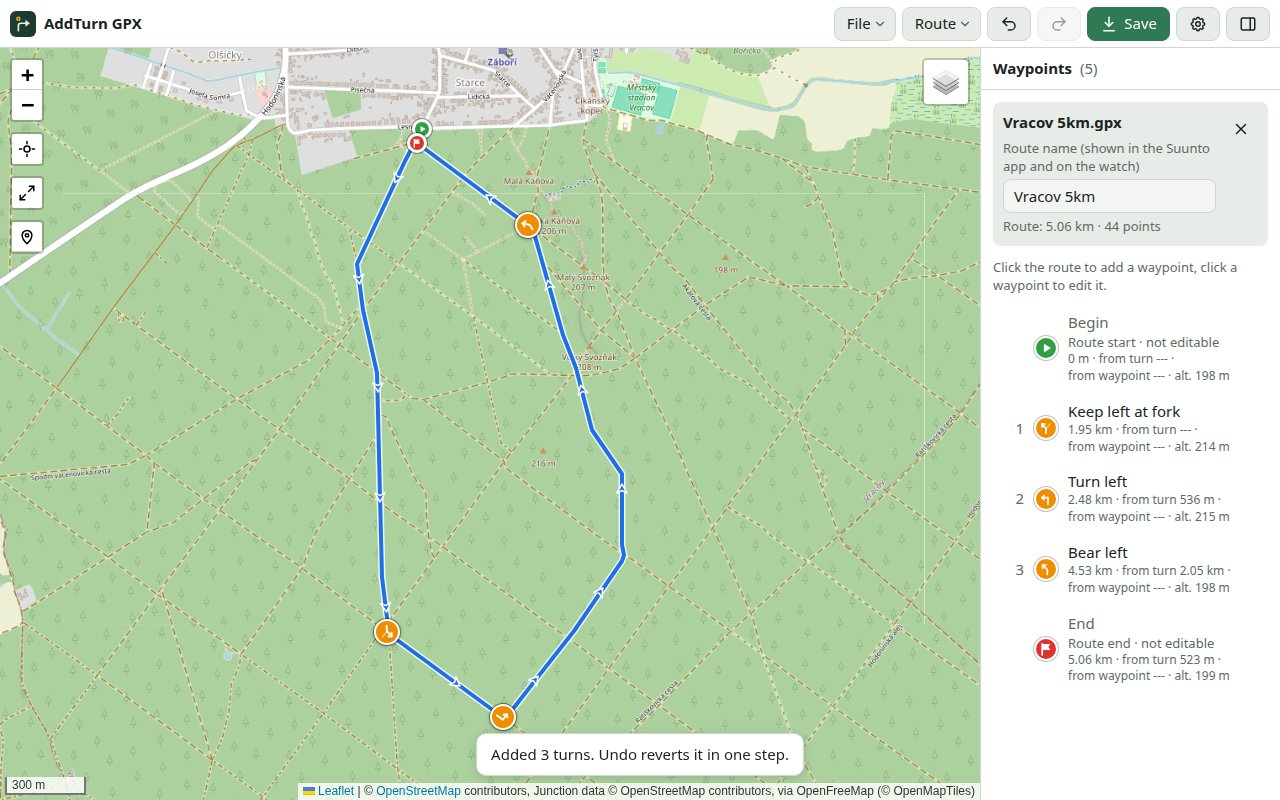
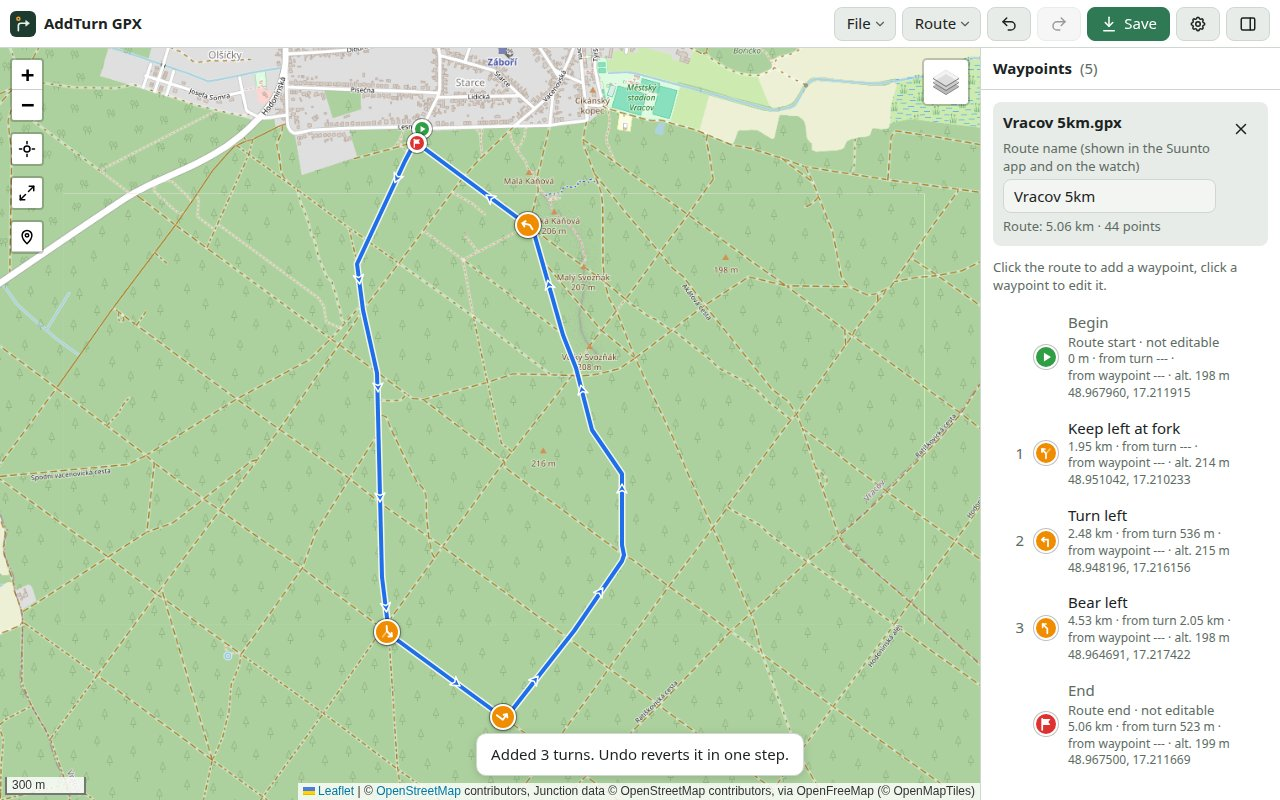
Coordinates of every waypoint in the list (latitude, longitude, 6 decimals – the text Go to accepts); README and screenshots (v113)

Changed region(s): [[0.7812, 0.4688, 0.9688, 0.9688], [0.8125, 0.4062, 0.8438, 0.4688]]

diff --git a/index.html b/index.html
@@ -263,6 +263,7 @@
   #wpt-list .wdesc{ color: var(--text-muted); font-size: 13px; overflow-wrap: anywhere; }
   #wpt-list .wdist{ color: var(--text-muted); font-size: 12px; font-variant-numeric: tabular-nums; }
   #wpt-list .wdist span{ white-space: nowrap; }
+  #wpt-list .wcoord{ color: var(--text-muted); font-size: 12px; font-variant-numeric: tabular-nums; }
   .hint{ color: var(--text-muted); font-size: 13px; }
   .add-hint{ margin: 0 0 10px; }
 
@@ -2243,6 +2244,7 @@ function el(tag, cls, text){
   return e;
 }
 function fmtKm(m){ return (m / 1000).toFixed(m < 10000 ? 2 : 1) + " km"; }
+const fmtLatLng = (ll) => ll.lat.toFixed(6) + ", " + ll.lng.toFixed(6);
 
 // Údaje pod každým waypointem v seznamu (cyklus 55): vzdálenost od startu po trase,
 // od předchozí odbočky, od předchozího waypointu, který není odbočka (bod zájmu,
@@ -2384,6 +2386,8 @@ function renderPanel(stats){
     const dist = el("div", "wdist");
     metrics[i].forEach((m, k) => dist.append(...(k ? [" · "] : []), el("span", null, m)));
     body.append(dist);
+    // Souřadnice (cyklus 80) – stejný zápis, jaký přijímá Go to a píše Debug turns
+    if (w.latlng) body.append(el("div", "wcoord", fmtLatLng(w.latlng)));
     if (w.warn) body.append(el("div", "wwarn off", "⚠ " + w.warn));
     if (w.typeWarn) body.append(el("div", "wwarn", "⚠ " + w.typeWarn));
     if (w.fixed || w.fromRoute) li.classList.add("fixed");

diff --git a/sw.js b/sw.js
@@ -13,7 +13,7 @@
 // Na originu dushino.github.io běží i další aplikace (OK Trainer) se společným
 // úložištěm cache, proto se při aktivaci mažou jen cache s touto předponou.
 const CACHE_PREFIX = "addturngpx-";
-const CACHE_NAME = CACHE_PREFIX + "v112";
+const CACHE_NAME = CACHE_PREFIX + "v113";
 // Soubor sdílený do nainstalované aplikace (manifest → share_target) přijde jako
 // POST na SHARE_URL. Uloží se do vlastní cache, stránka si ho po přesměrování
 // vyzvedne a cache smaže. Názvy = SHARE_CACHE a SHARED_FILE v index.html.

diff --git a/tests/README.md b/tests/README.md
@@ -29,7 +29,7 @@ Requirements: Node.js 22+ and Google Chrome. The runner looks for a `google-chro
 | `keys.json` | **Arrow keys and the panel lock** (cycle 73): ↓ / ↑ select the next / previous turn (points of interest, Crossroads and Begin/End skipped; from a point of interest the nearest turn after / before it; Begin → the first turn), stay at the first / last turn, centre the map, keep the list item visible; with the map focused the arrow selects instead of panning (with nothing selected Leaflet still pans); ignored while typing, with a modifier, with a menu or Settings open. **Panel lock** (Debug turns on, `fixtures/vracov-5km-snapped.gpx`): the user scrolls the panel to the Debug turns card → the panel keeps its place for arrows, a map click, an edit and Undo; a list choice ends it (the list item followed again); a scroll made by the app doesn't lock; scrolling the editor out of sight, Esc, a click on an empty map place and opening a file end it |
 | `goto.json` | **Go to** (cycle 78): the button under Fit route (also with no file), the form beside it, Esc; the input – decimal degrees (comma, space, N/S/E/W letters before or after, either order, minus), degrees–minutes–seconds, degrees–decimal minutes, a single number = km (dot or comma), wrong input refused with a reason; coordinates centre the map at zoom 18 (a larger zoom kept) with a temporary mark under the waypoints, removed by a map click or Esc; a waypoint within 5 m selected, 8 m away none (the previous selection closed); a distance as shown in the waypoint list selects that waypoint, 0 km = Begin, longer than the route refused; an out-and-back route (Begin and End at one place) by km and by coordinates; Ctrl+G (not with Settings open); a 320 px phone (the form fits, the place in the upper part of the map above the editor) |
 | `offline.json` | **Starting without signal** (the test server accepts connections but never answers, as on a train with zero signal): the app starts at once from the service worker cache, also with a query in the address; other files from the app's site come from the cache after the 3 s time limit. **Updates**: a new `sw.js` is installed in the background, the *New version available* bar appears, ✕ hides it, Reload switches to the new version, old caches are deleted. Run it last – it changes the service worker of the shared browser profile and restores it at the end |
-| `editing.json` | **Opening and saving.** A file in the saved format (Suunto Routeplanner, as AddTurn saves it since cycle 44: `fixtures/saved-*.gpx`) opens unchanged (not Modified, no notice) and saving it without changes writes the same bytes; an older AddTurn file in the test51 format (`fixtures/addturn-*.gpx`) opens as Modified with the notice and its content kept. Inside the app the text stays in the test51 format: changing a type or name, Undo/Redo back to the exact original, adding a waypoint on a route point (with its elevation), inserting a route point on a long segment, moving a waypoint, `windows-1250` → UTF-8. Conversion on open: a Suunto app export (test51) gets the new creator and line ends, conversion is idempotent, a Routeplanner file is converted (one line per point, Begin…End in route order, elevation everywhere), tracks become one route with generated Begin/End, route points with a name/type become waypoints, an old unconverted session is converted on restore. Route name: editable field in the panel, only the right `<name>` changes (route name has priority over metadata), Undo, empty name refused, Save as suggests `<route name>.gpx`. **Saved file format**: header and metadata, groups Begin/End → Turn guidance waypoints (every turn named) → Route waypoints (points of interest) → Route points, waypoints without elevation, no line end at the end, it opens again unchanged; Settings → *Write waypointIndices* (off by default): indices of Begin, every turn, points of interest and End, and such a file opens unchanged only with the option on. **Waypoint list**: distance from the start, from the previous turn, from the previous waypoint that is not a turn (`---` when none; Begin/End don't count) and the altitude, compared with values computed from the route points; a waypoint off the route shows only its altitude |
+| `editing.json` | **Opening and saving.** A file in the saved format (Suunto Routeplanner, as AddTurn saves it since cycle 44: `fixtures/saved-*.gpx`) opens unchanged (not Modified, no notice) and saving it without changes writes the same bytes; an older AddTurn file in the test51 format (`fixtures/addturn-*.gpx`) opens as Modified with the notice and its content kept. Inside the app the text stays in the test51 format: changing a type or name, Undo/Redo back to the exact original, adding a waypoint on a route point (with its elevation), inserting a route point on a long segment, moving a waypoint, `windows-1250` → UTF-8. Conversion on open: a Suunto app export (test51) gets the new creator and line ends, conversion is idempotent, a Routeplanner file is converted (one line per point, Begin…End in route order, elevation everywhere), tracks become one route with generated Begin/End, route points with a name/type become waypoints, an old unconverted session is converted on restore. Route name: editable field in the panel, only the right `<name>` changes (route name has priority over metadata), Undo, empty name refused, Save as suggests `<route name>.gpx`. **Saved file format**: header and metadata, groups Begin/End → Turn guidance waypoints (every turn named) → Route waypoints (points of interest) → Route points, waypoints without elevation, no line end at the end, it opens again unchanged; Settings → *Write waypointIndices* (off by default): indices of Begin, every turn, points of interest and End, and such a file opens unchanged only with the option on. **Waypoint list**: distance from the start, from the previous turn, from the previous waypoint that is not a turn (`---` when none; Begin/End don't count) and the altitude, compared with values computed from the route points; a waypoint off the route shows only its altitude; **the coordinates** of every waypoint (cycle 80): 6 decimals as in the file, also Begin, End and a waypoint off the route, a text Go to accepts |
 
 **The tests never contact the real data services.** GraphHopper requests are answered by a mock, set with `__gh.mode` (see `run.mjs`). Requests to the Overpass API are answered from `fixtures/vracov-overpass.json`, which holds OpenStreetMap data around `fixtures/vracov-5km.gpx` (a copy of `samples/Vracov 5km.gpx` as it was before 2026-11-14, so that changes in `samples/` don't break the tests), or replaced with simulated failures. Map tile requests are answered from `fixtures/tiles/openfreemap/` (OpenFreeMap, OpenMapTiles schema) and `fixtures/tiles/osmf/` (OpenStreetMap vector tiles, Shortbread schema): 12 tiles at zoom 14 around the same route, downloaded on 2026-10-21; they also cover `fixtures/vracov-5.5km.gpx`. Three more OpenFreeMap tiles (`8975/5621`, `8975/5622`, `8974/5622`, downloaded on 2026-11-05) cover `fixtures/okruh-start.gpx`, `fixtures/okruh-uturn.gpx` and `fixtures/vresky-fork.gpx`. Four OpenFreeMap tiles `8502–8503/5834–5835` (downloaded on 2026-11-20) cover `fixtures/utmb-3.9km.gpx` (42 points of `samples/UTMB_2026_25e2a492e6.gpx` around 3.9 km). Data © OpenStreetMap contributors (ODbL); OpenFreeMap tiles © OpenMapTiles.
 

diff --git a/README.md b/README.md
@@ -15,7 +15,7 @@ Suunto watches show an instruction (turn left, keep right at a fork, …) and th
 
 ![AddTurn GPX with a route and generated turn instructions](docs/img/overview.jpg)
 
-*A route with the turns added by **Route → Generate turns**: their icons on the map, and in the panel the list of waypoints with the distance from the start, from the previous turn and the altitude.*
+*A route with the turns added by **Route → Generate turns**: their icons on the map, and in the panel the list of waypoints with the distance from the start, from the previous turn, the altitude and the coordinates.*
 
 ## Recommended workflow (tested on a watch)
 
@@ -67,7 +67,7 @@ Good to know:
 ## The screen
 
 - **Map**: the route with arrows showing the direction of travel, plus the waypoints. The buttons on the left zoom in and out, show your location (the icon turns blue; click it again to hide the location), and **⤢ Fit route** shows the whole route, also while you are planning one. The **pin** button below them (or **Ctrl+G**) is **Go to**: type coordinates – decimal like `45.7661, 6.8385` (also `45.7661N, 6.8385E`), or degrees, minutes and seconds like `45°45'58"N 6°50'18"E` or `N 45° 45.966' E 6° 50.309'` – or a distance along the open route in km, as shown in the waypoint list (`67.28` or `67.28 km`). The map zooms in on the place and marks it with a ring until you click the map or press Esc; a waypoint within 5 m of it is selected. The layers button on the right switches between **OpenStreetMap**, **OpenTopoMap** (topographic map with contour lines) and **Satellite (Esri)**. A metric scale bar is in the bottom left corner.
-- **Panel** (on the right on a computer, a pull-up sheet at the bottom on a phone): file details, the **route name** that the Suunto app and the watch will show (you can edit it at any time; Undo works as for other changes), and the list of waypoints in the order you'll reach them on the route. Under each waypoint: the distance from the start along the route, from the previous turn, from the previous waypoint that is not a turn (point of interest, Crossroads, plain waypoint; *---* when there is none) and the altitude. A waypoint off the route shows only its altitude.
+- **Panel** (on the right on a computer, a pull-up sheet at the bottom on a phone): file details, the **route name** that the Suunto app and the watch will show (you can edit it at any time; Undo works as for other changes), and the list of waypoints in the order you'll reach them on the route. Under each waypoint: the distance from the start along the route, from the previous turn, from the previous waypoint that is not a turn (point of interest, Crossroads, plain waypoint; *---* when there is none) and the altitude, and below that its **coordinates** (latitude, longitude, e.g. `48.957771, 17.209697`) – the same text you can type into **Go to**. A waypoint off the route shows only its altitude and coordinates.
 - **Toolbar**: the menus **File** (New route, Open, Save, Save as…, Export FIT, Close) and **Route** (Snap to roads, Generate turns, Edit route, Reverse route), then Undo, Redo, Save, Settings, and the button that shows or hides the panel. Menu items that can't be used at the moment (for example Route without an open route) are greyed out; *Save as…* is shown only in browsers that can choose where to save (Chrome and Edge on a computer). On a phone the buttons other than the menus show only icons. The app name (or icon) on the left opens this project page on GitHub.
 
 <img src="docs/img/mobile.jpg" alt="AddTurn GPX on a phone" width="260">

diff --git a/README-CZ.md b/README-CZ.md
@@ -15,7 +15,7 @@ Hodinky Suunto při navigaci po trase ukazují pokyn (odboč vlevo, na rozcestí
 
 ![AddTurn GPX s trasou a vygenerovanými pokyny](docs/img/overview.jpg)
 
-*Trasa s odbočkami, které přidalo **Route → Generate turns**: jejich ikony na mapě a v panelu seznam waypointů se vzdáleností od startu, od předchozí odbočky a nadmořskou výškou.*
+*Trasa s odbočkami, které přidalo **Route → Generate turns**: jejich ikony na mapě a v panelu seznam waypointů se vzdáleností od startu, od předchozí odbočky, nadmořskou výškou a souřadnicemi.*
 
 ## Doporučený postup (ověřeno na hodinkách)
 
@@ -67,7 +67,7 @@ Dobré vědět:
 ## Obrazovka
 
 - **Mapa**: trasa se šipkami ve směru jízdy a waypointy. Tlačítka vlevo přibližují a oddalují, ukážou tvou polohu (ikona zmodrá, dalším klepnutím poloha zmizí) a **⤢ Fit route** ukáže celou trasu, i tu právě plánovanou. Tlačítko se **špendlíkem** pod nimi (nebo **Ctrl+G**) je **Go to** (přejít na): zadej souřadnice – desetinné jako `45.7661, 6.8385` (i `45.7661N, 6.8385E`), nebo stupně, minuty a vteřiny jako `45°45'58"N 6°50'18"E` či `N 45° 45.966' E 6° 50.309'` – nebo vzdálenost po otevřené trase v km, jak ji ukazuje seznam waypointů (`67.28` nebo `67.28 km`). Mapa místo přiblíží a označí kroužkem, který zmizí po kliknutí do mapy nebo Esc; waypoint do 5 m od místa se vybere. Tlačítkem vrstev vpravo přepínáš mezi **OpenStreetMap**, **OpenTopoMap** (turistická mapa s vrstevnicemi) a **Satellite (Esri)**. Vlevo dole je měřítko v metrech.
-- **Panel** (na počítači vpravo, na telefonu vysouvací panel dole): údaje o souboru, **název trasy**, který ukáže aplikace Suunto a hodinky (můžeš ho kdykoli upravit; Zpět funguje jako u ostatních úprav), a seznam waypointů v pořadí, v jakém na ně na trase narazíš. U každého waypointu: vzdálenost od startu po trase, od předchozí odbočky, od předchozího waypointu, který není odbočka (bod zájmu, Crossroads, obecný waypoint; *---*, když žádný není), a nadmořská výška. Waypoint mimo trasu ukáže jen výšku.
+- **Panel** (na počítači vpravo, na telefonu vysouvací panel dole): údaje o souboru, **název trasy**, který ukáže aplikace Suunto a hodinky (můžeš ho kdykoli upravit; Zpět funguje jako u ostatních úprav), a seznam waypointů v pořadí, v jakém na ně na trase narazíš. U každého waypointu: vzdálenost od startu po trase, od předchozí odbočky, od předchozího waypointu, který není odbočka (bod zájmu, Crossroads, obecný waypoint; *---*, když žádný není), a nadmořská výška a pod tím jeho **souřadnice** (šířka, délka, např. `48.957771, 17.209697`) – stejný zápis, jaký přijímá **Go to**. Waypoint mimo trasu ukáže jen výšku a souřadnice.
 - **Lišta**: menu **File** (New route, Open, Save, Save as…, Export FIT, Close) a **Route** (Snap to roads, Generate turns, Edit route, Reverse route), dál Undo, Redo, Save, Settings a tlačítko, které panel ukáže nebo skryje. Položky, které právě použít nejde (třeba Route bez otevřené trasy), jsou šedé; *Save as…* je jen v prohlížečích, které umí vybrat, kam uložit (Chrome a Edge na počítači). Na telefonu mají tlačítka kromě menu jen ikony. Název (nebo ikona) aplikace vlevo otevře tuto stránku projektu na GitHubu.
 
 <img src="docs/img/mobile.jpg" alt="AddTurn GPX na telefonu" width="260">

diff --git a/docs/dev/PROGRESS.md b/docs/dev/PROGRESS.md
@@ -91,7 +91,8 @@ potvrzení od uživatele → další cyklus.
 | 76 | Trasa vede po cestě, na které leží: větev z úhlu v 10/20 m dál než 3 m od trasy (5 m od uzlu) a jiná do 1 m → ta jiná (v109) | implementováno, testy 341/341; čeká na test uživatele |
 | 77 | Narrow fork angle v Settings (výchozí 25°): v sektoru A je rozcestím i jiná cesta vpřed do tohoto úhlu od trasy (v110) | potvrzeno uživatelem (2026-11-21) |
 | 78 | Go to: souřadnice nebo km po trase (tlačítko na mapě, Ctrl+G), kroužek na místě, výběr waypointu do 5 m (v111) | potvrzeno uživatelem (2026-11-21) |
-| 79 | Begin / End: ikony se symboly ▶ a vlaječka místo písmen S / F, záložní popisky Begin / End (v112) | implementováno, testy 353/353; čeká na test uživatele |
+| 79 | Begin / End: ikony se symboly ▶ a vlaječka místo písmen S / F, záložní popisky Begin / End (v112) | potvrzeno uživatelem (2026-11-21) |
+| 80 | Souřadnice každého waypointu v seznamu (6 desetinných míst, zápis jako pro Go to), README (v113) | implementováno, testy 354/354; čeká na test uživatele |
 
 ## Deník
 ### Cyklus 0 (2026-10-16)
@@ -845,3 +846,9 @@ potvrzení od uživatele → další cyklus.
 - Implementace: `END_SYMBOL` (bílé SVG: ▶ pro začátek, vlaječka pro konec) v `endIcon` (mapa, 20 px) i v seznamu (`.ticon.start/.finish`, 14 px); barvy beze změny (zelená / červená). Záložní popisky „Start“ / „Finish“ (značky trasy bez Begin/End, jméno chybí) → „Begin“ / „End“. Tlačítko Finish v plánovači je jiný význam (dokončit plánování), beze změny. README (EN i CZ) – legenda. v112.
 - Testy: `categories.json` +1 (jména ze souboru, symboly bez písmen v mapě i seznamu, barvy, popisky). Všechny sady **353/353**.
 - Snímky v `docs/img/` obnoveny (požadavek uživatele, 2026-11-21): `overview`, `generator`, `editor`, `mobile` ze `samples/Vracov 5km.gpx` stejně jako minule (headless Chrome, živé dlaždice OSM i data křižovatek z OpenFreeMap, v112) – Begin ▶ / End vlaječka, nově i tlačítko Go to. Popisky v README sedí beze změny.
+
+### Cyklus 80 – souřadnice v seznamu waypointů (2026-11-21)
+- Požadavek uživatele: u každého waypointu v panelu i jeho souřadnice, pak znovu aktualizovat README (EN i CZ).
+- Implementace: pod řádkem se vzdálenostmi a výškou nový řádek `.wcoord` „48.957771, 17.209697“ (`fmtLatLng`, 6 desetinných míst, šířka, délka) – stejný zápis, jaký přijímá Go to a píše Debug turns; u všech položek včetně Begin / End a bodů mimo trasu. v113.
+- README (EN i CZ): popis panelu a popisek pod hlavním obrázkem; snímky `overview.jpg` a `generator.jpg` znovu (stejný postup jako v cyklu 79), `editor.jpg` a `mobile.jpg` seznam neukazují – beze změny.
+- Testy: `editing.json` +1 (souřadnice u všech položek, shodné se souborem, bod mimo trasu, text přijme Go to). Všechny sady **354/354**.

diff --git a/CLAUDE.md b/CLAUDE.md
@@ -105,7 +105,8 @@ jsou v `docs/dev/`; tady je jen to, co je potřeba vědět hned.
 - **Cyklus 76 (2026-11-21):** trasa vede po cestě, na které leží – větev vybraná podle směru v 10/20 m, jejíž bod 5 m od uzlu je dál než 3 m od trasy, se nahradí jinou větví do 1 m (`routeBranches`, `FOLLOW_*`), jen u uzlu na trase; Debug turns to vypíše (v109). Ruší zdvojené pokyny (UTMB 4,03 km, Praha přichycená 11×). Testy 341/341. Čeká na test uživatele.
 - **Cyklus 77 (2026-11-21):** Settings → Generate turns → *Narrow fork angle* (výchozí 25°, 0–45°, 0 = jen sektor A): v sektoru A je úzkým rozcestím i jiná cesta vpřed nejvýš o tento úhel od trasy (`forkGap`, err2: trasa +13°, pěšina +34° → Keep left at fork); zúžení sektoru A zamítnuto po měření (+48 pokynů), v110. Testy 344/344. Potvrzeno uživatelem (2026-11-21); další krok: zadání souřadnic a vycentrování mapy (TODO).
 - **Cyklus 78 (2026-11-21):** **Go to** – tlačítko se špendlíkem pod Fit route a Ctrl+G: souřadnice (desetinné, s N/S/E/W, stupně-minuty-vteřiny, geocaching) nebo km po trase jako v seznamu waypointů; mapa na místo (zoom 18), dočasný kroužek (klik do mapy / Esc), waypoint do 5 m se vybere (`parseGoTo`, `goTo`, v111). Testy 352/352 (nová sada `goto.json`). Potvrzeno uživatelem (2026-11-21).
-- **Cyklus 79 (2026-11-21):** Begin / End – ikony se symboly (zelená ▶, červená vlaječka, `END_SYMBOL`) místo písmen S / F, slova Begin / End jako v souboru a v Suuntu (rozhodnutí uživatele), v112. Testy 353/353. Čeká na test uživatele; snímky README obnoveny.
+- **Cyklus 79 (2026-11-21):** Begin / End – ikony se symboly (zelená ▶, červená vlaječka, `END_SYMBOL`) místo písmen S / F, slova Begin / End jako v souboru a v Suuntu (rozhodnutí uživatele), v112. Testy 353/353. Potvrzeno uživatelem (2026-11-21); snímky README obnoveny.
+- **Cyklus 80 (2026-11-21):** souřadnice každého waypointu v seznamu (`fmtLatLng`, „48.957771, 17.209697“, zápis jako pro Go to), README a snímky `overview` / `generator`, v113. Testy 354/354. Čeká na test uživatele.
 - **Plánovač tras (rozhodnutí uživatele 2026-10-30):** GraphHopper s vlastním API klíčem každého
   uživatele (ne BRouter/Valhalla, ne sdílený klíč), nezávisle na testech na hodinkách. Výstup dál
   formát test51. Viz `docs/dev/DESIGN.md` → „Rozhodnutí: GraphHopper s vlastním klíčem“. Cykly 25–26 potvrzeny,
